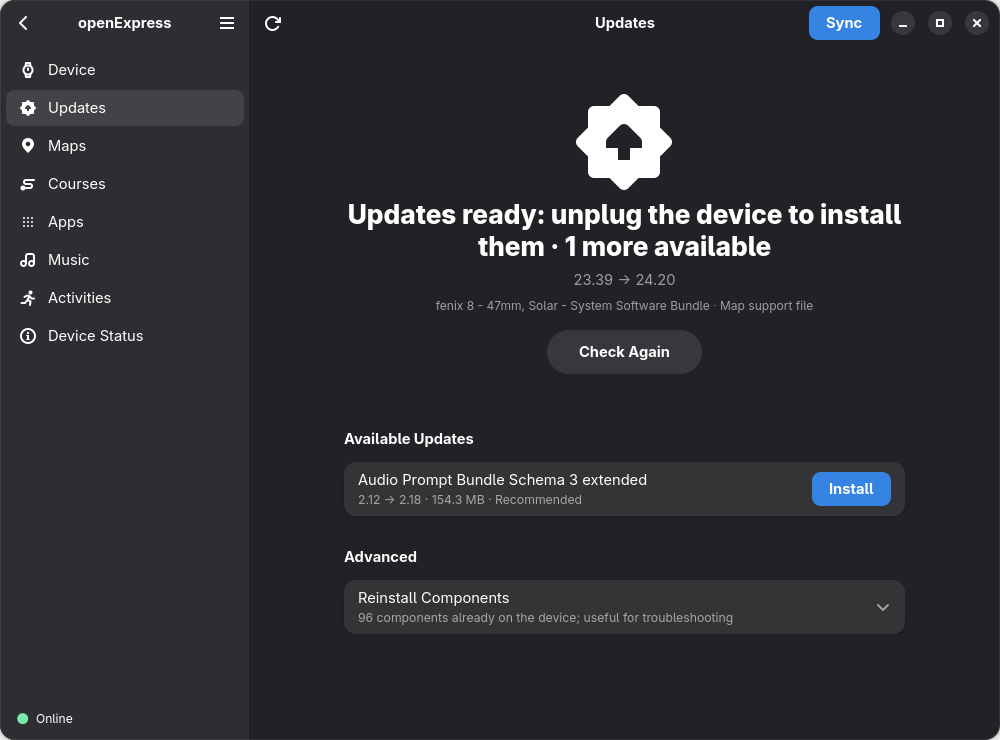
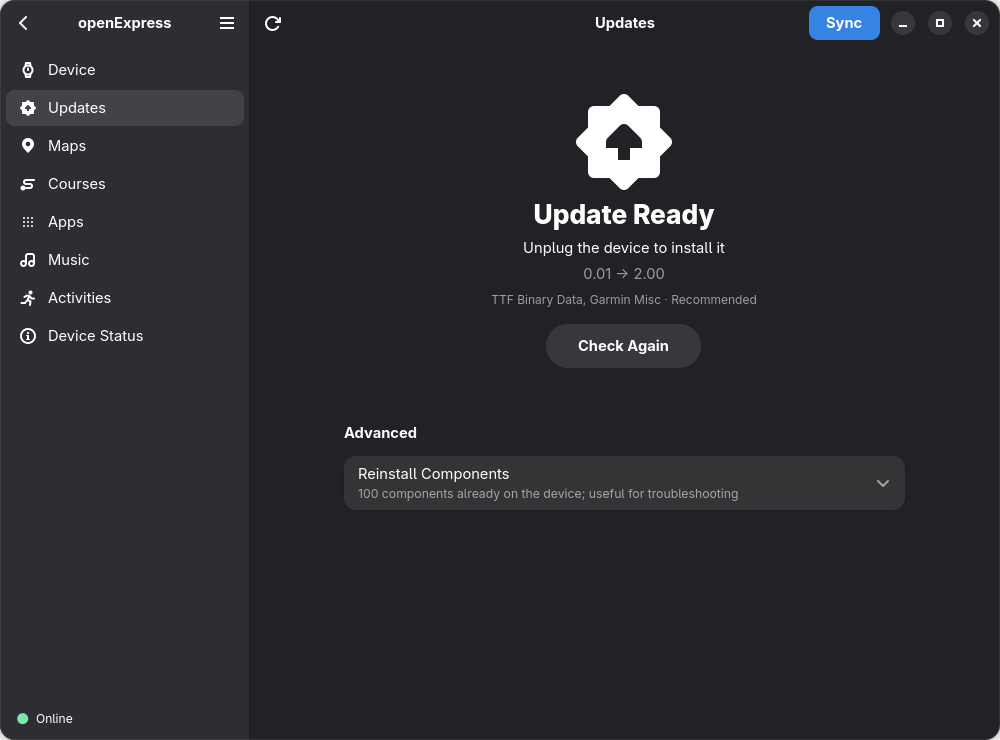
Screenshots: Apps, Device Status and Update Ready as the window shows them now

diff --git a/docs/guide.md b/docs/guide.md
@@ -254,7 +254,7 @@ fēnix 8 (24.20), and reported working on a fēnix 7 ([#6](https://github.com/To
 
 <p align="center">
   <img src="screenshots/update-ready.png" width="700"
-       alt="The Updates page of a fēnix 8 after the copy: Updates ready: unplug the device to install them, 1 more available, 23.39 → 24.20, with Check Again">
+       alt="The Updates page of a fēnix 8 after a font component was copied: Update Ready, Unplug the device to install it, 0.01 → 2.00, TTF Binary Data, Garmin Misc, with Check Again">
 </p>
 
 ## Maps
@@ -535,7 +535,7 @@ choose under Free Up Space.
 
 <p align="center">
   <img src="screenshots/status-history.png" width="700"
-       alt="The Device Status page of an Edge 1050 bike computer: here an update just installed, from 33.20 to 33.21, and its first connection to this computer; its diagnostic files (two copies on this computer, one memory dump) and Report a Problem">
+       alt="The Device Status page of an Edge 1050 bike computer: its software updates from 33.20 to 33.21 and from 33.21 to 33.22, and its first connection to this computer; its diagnostic files (two copies on this computer, one memory dump) and Report a Problem">
 </p>
 
 The device page leads there from its rows **Device Storage** and **Device Status**.

diff --git a/README.md b/README.md
@@ -87,7 +87,7 @@ was checked on other devices is in the table below. Other Garmin devices that co
 
 <p align="center">
   <img src="docs/screenshots/status.png" width="700"
-       alt="The Device Status page of a fēnix 8 watch: four crashes in the last 30 days, its storage by kind of file, maps the largest, and the newest crash at the top of its list">
+       alt="The Device Status page of a fēnix 8 watch: four crashes in the last 30 days, its storage by kind of file, maps the largest, and at the top of its history the software update from 23.39 to 24.20">
 </p>
 
 ## openPath
